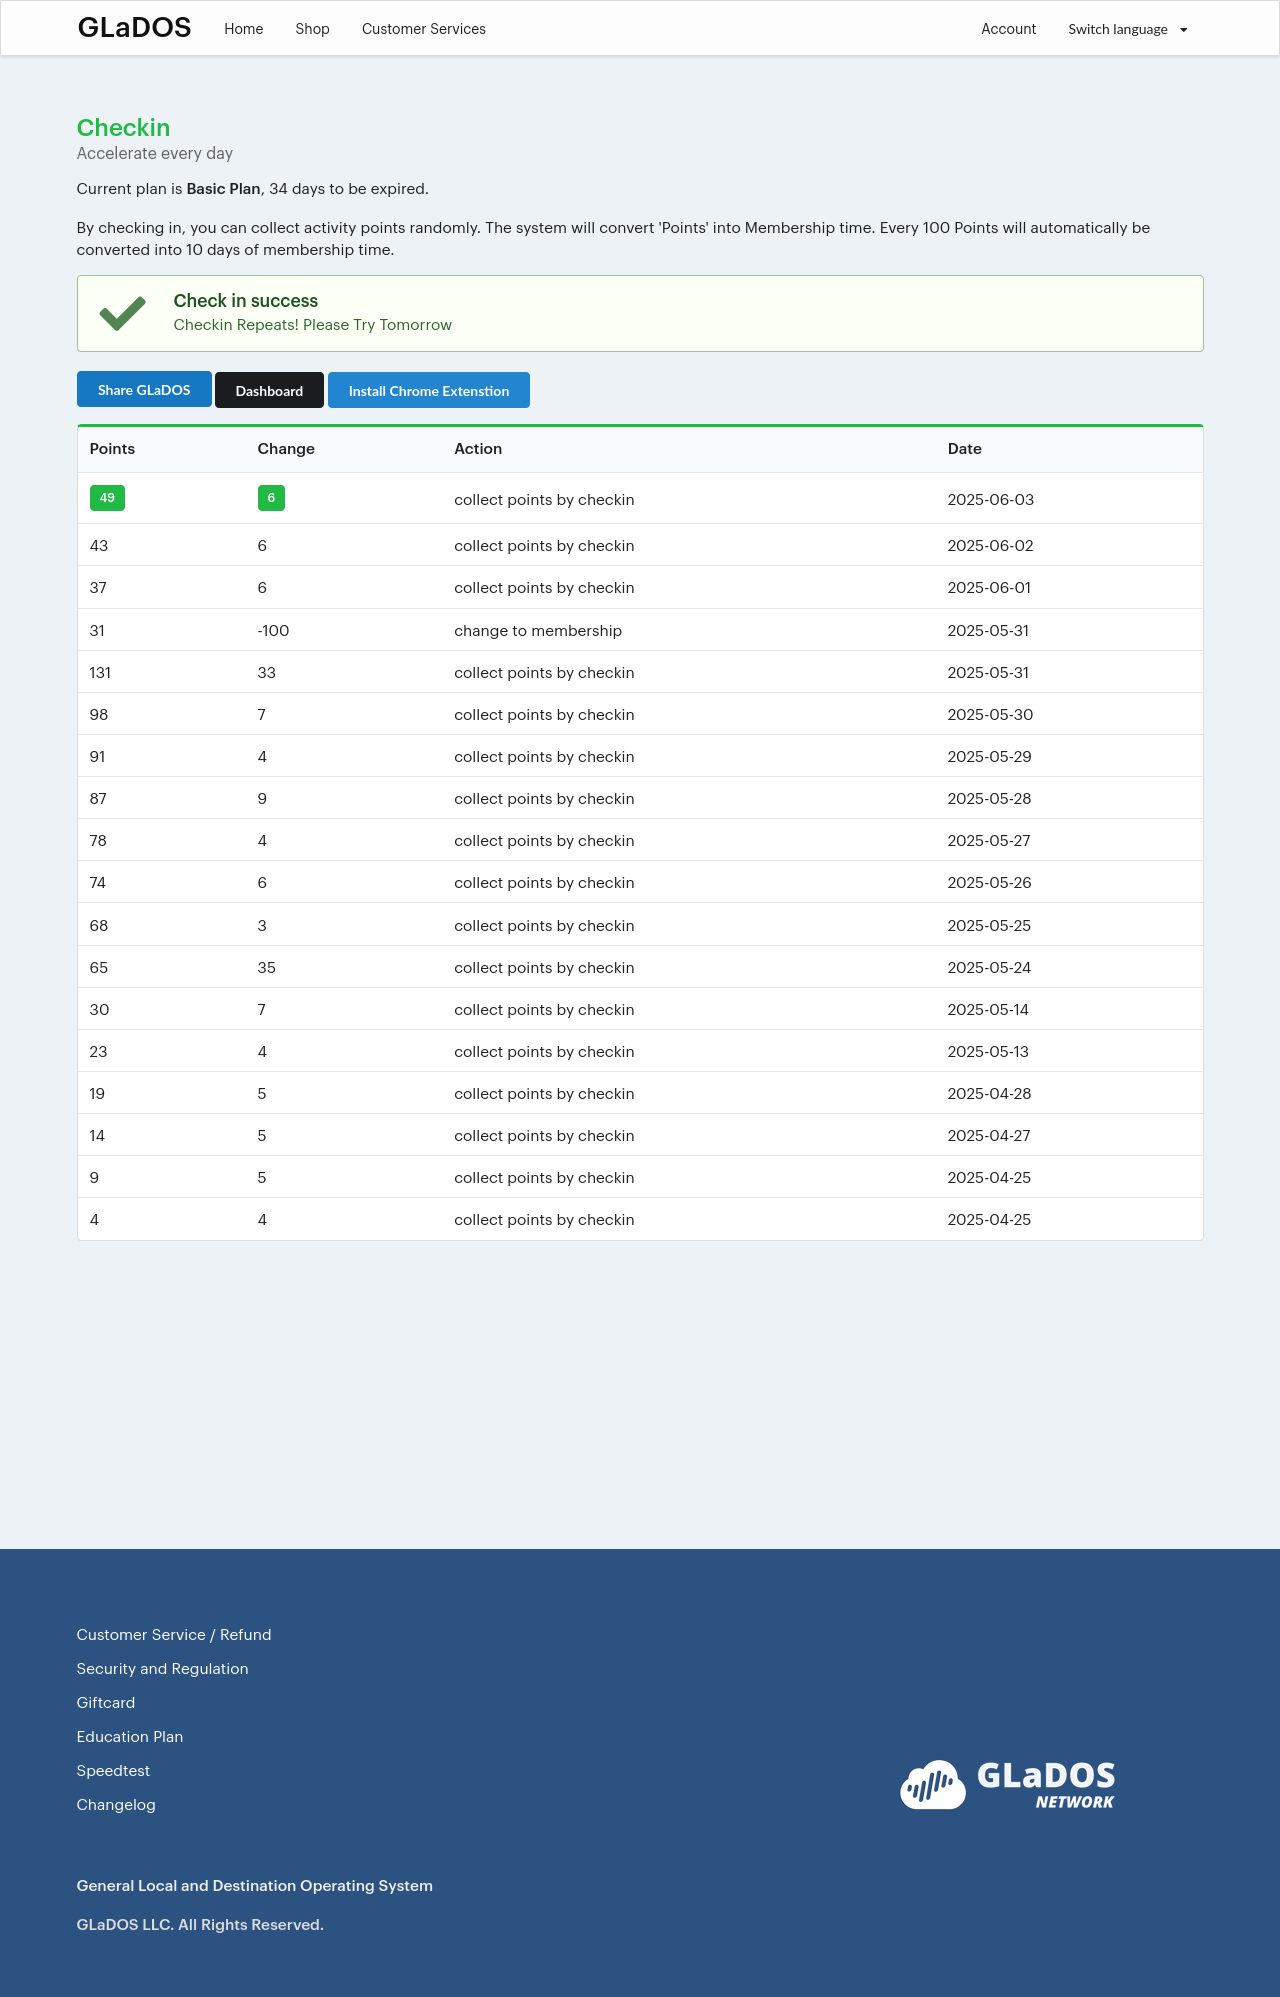
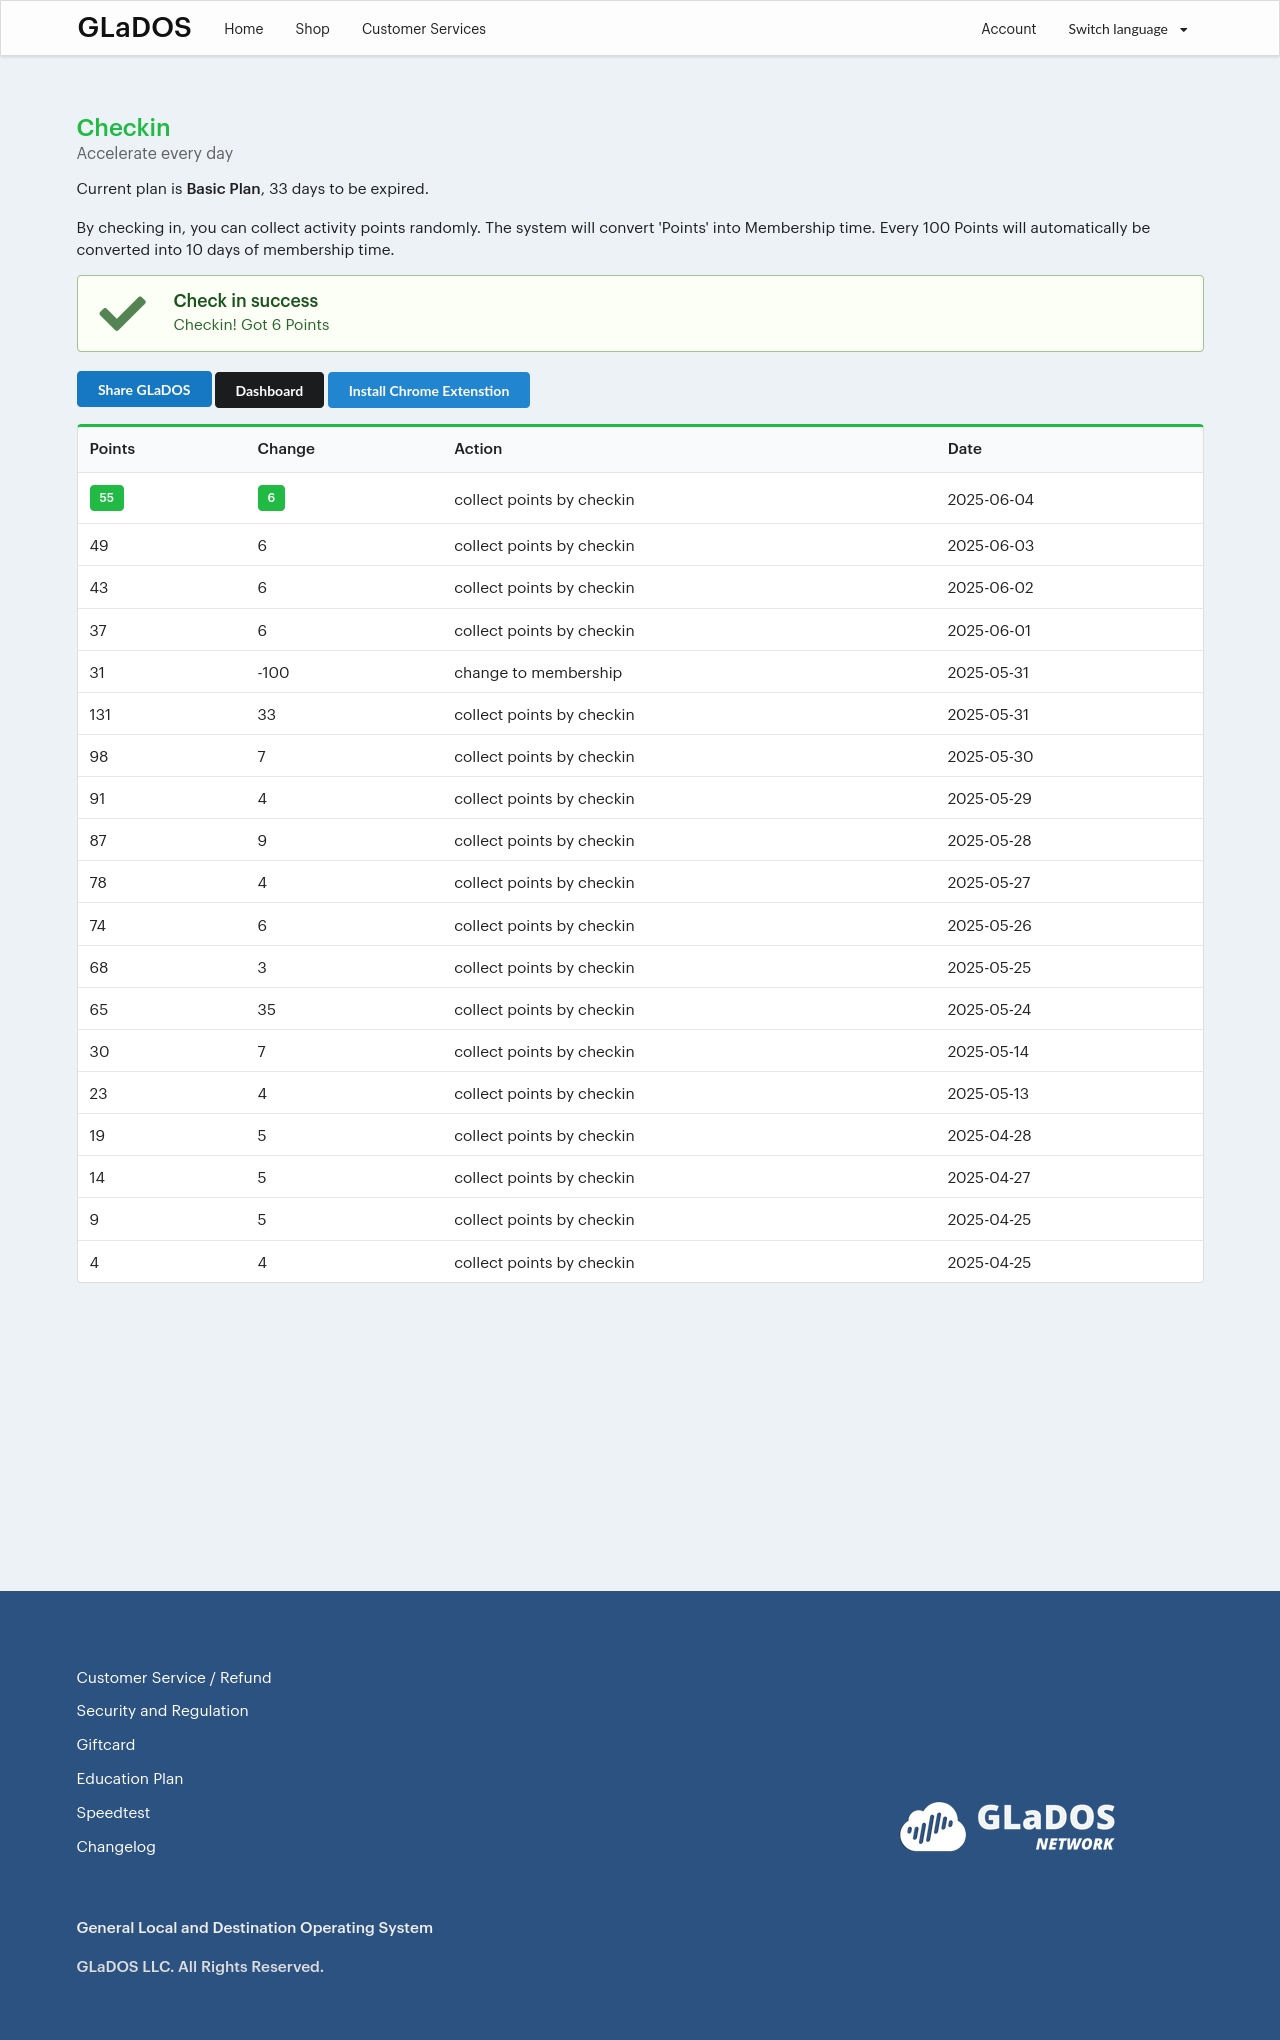
自动签到 2025-06-04

diff --git a/README.md b/README.md
@@ -1,5 +1,5 @@
 ![GitHub Actions](https://github.com/stx-x/misc-actions/workflows/GLADOS%20自动签到/badge.svg)
 
 ## GLADOS 最近签到截图
-GLADOS 最近更新时间: 2025-06-03 18:41:13
+GLADOS 最近更新时间: 2025-06-04 17:35:36
 ![最近签到截图](glados/checkin.png)
